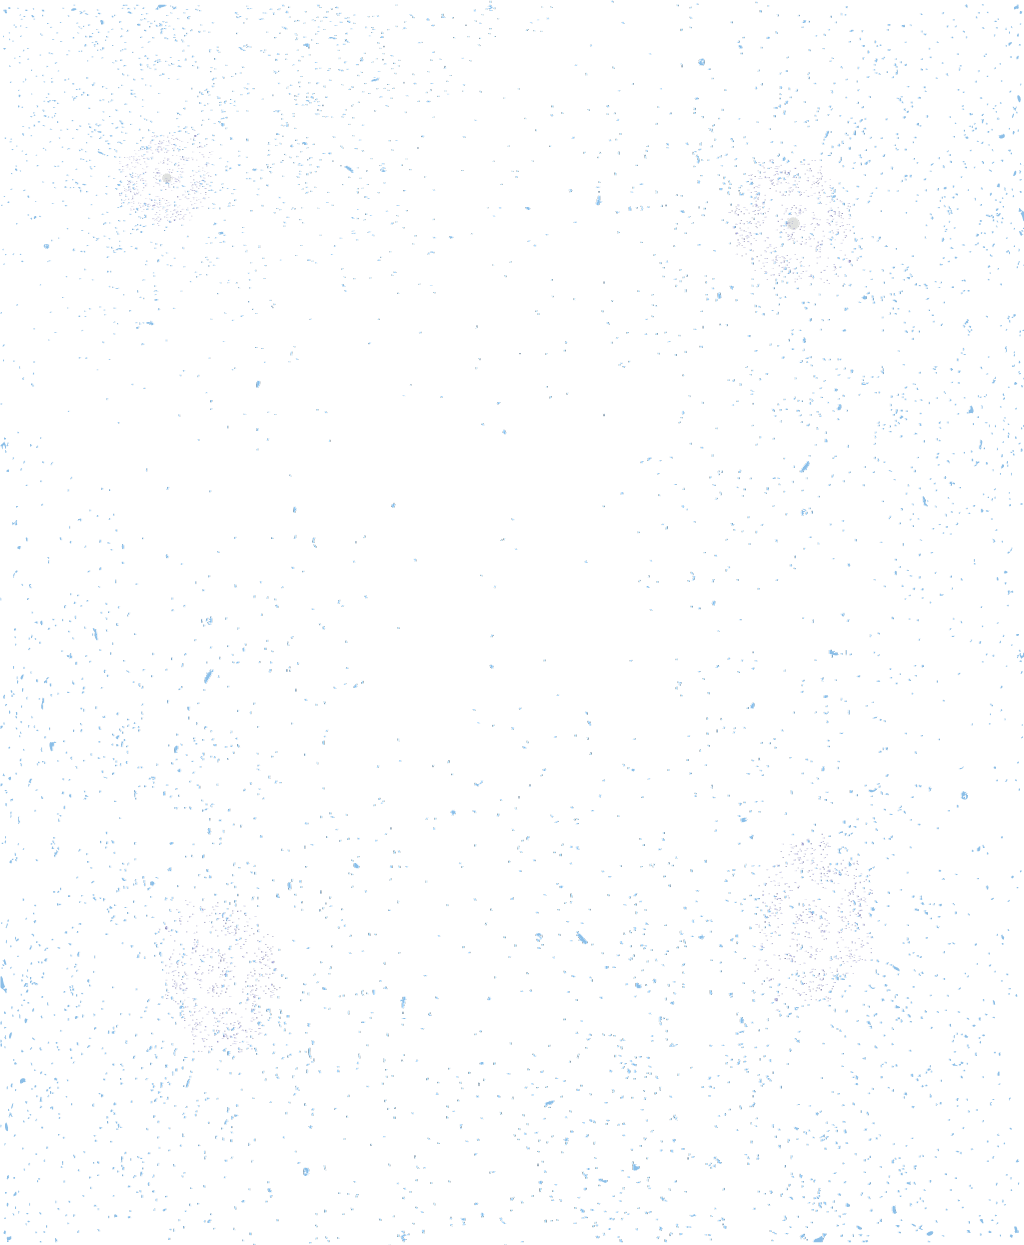
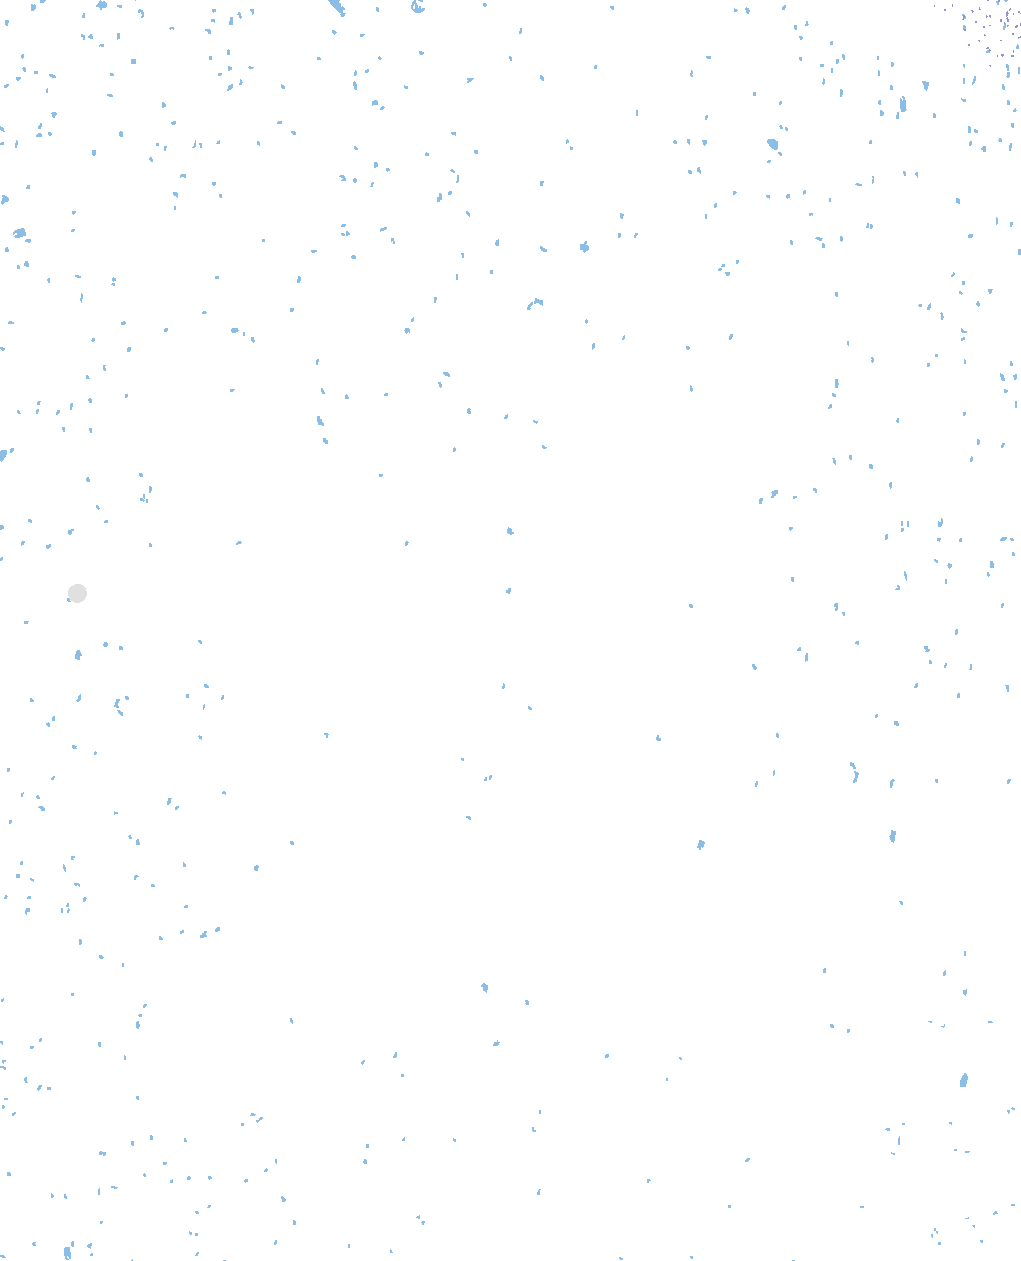
Finalized sun section

diff --git a/css/styles.css b/css/styles.css
@@ -105,6 +105,19 @@ h1 {
 
 /*= Sun
 ************************************/
+article .section-sun h1,
+article .section-sun p {
+	color: #fff;
+}
+
+.background .section-sun .stars {
+	width: 9999px;
+	height: 4000px;
+	left: -5000px;
+	position: relative;
+	background: url('../img/stars.png');
+}
+
 .background .section-sun .sun {
 	position: absolute;
 	left: -128px;
@@ -123,6 +136,15 @@ h1 {
 
 /*= Earth
 ************************************/
+.background .section-earth .stars {
+	width: 9999px;
+	height: 2000px;
+	left: -5000px;
+	top: 500px;
+	position: relative;
+	background: url('../img/stars2.png');
+}
+
 .background .section-earth p.stickleft {
 	left: -250px; /*= width + 50px margin */
 }

diff --git a/home.php b/home.php
@@ -176,11 +176,13 @@
 				<section class="section-sun" style="height: 1900px">
 					<img data-z="-2000" class="sun" src="<?php echo img('sun.png'); ?>" />
 					<img data-z="-2000" class="sun hot" src="<?php echo img('sun-hot.png'); ?>" />
+					<div data-z="-3000" class="stars"></div>
 				</section>
 				<section class="section-earth" style="height: 3200px">
 					<img data-z="-1400" class="earth" src="<?php echo img('earth.png'); ?>" />
 					<img data-z="-1400" class="earth cold" src="<?php echo img('earth-cold.png'); ?>" />
 					<img data-z="-1400" class="earth frozen" src="<?php echo img('earth-frozen.png'); ?>" />
+					<div data-z="-1600" class="stars"></div>
 				</section>
 				<section class="section-ocean" style="height: 2700px">
 					<div data-z="-1" class="water"></div>
